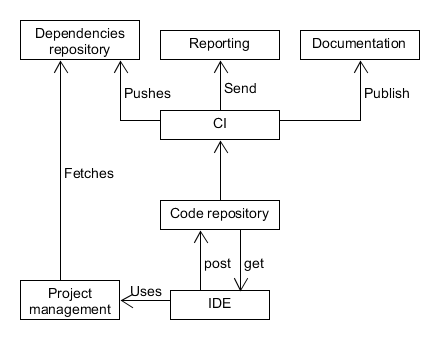
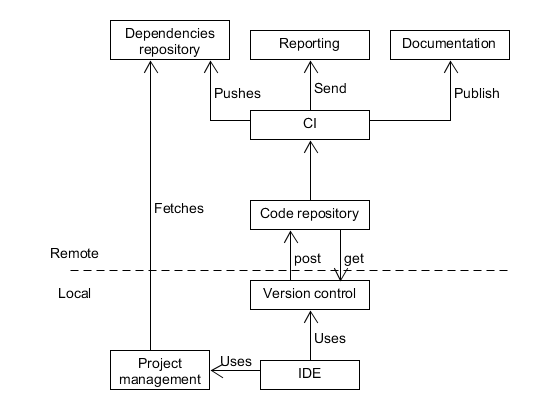
Updated environment diagram

diff --git a/general/devenv.md b/general/devenv.md
@@ -9,7 +9,8 @@ The environment is dependant of the technology being used, and may require setti
 The usual components of any development environment are:
 
 - IDE, such as Eclipse or Pycharm
-- Code repository, such as svn, git, github or bitbucket
+- Version control system, such as svn or git
+- Code repository, such as github or bitbucket
 - Project or dependencies management tool, such as Maven, npm, webpack, or pip
 - Continuous integration service, such as Travis or Jenkins
 - Dependencies repository, such as Bintray, PyPi or Nexus
